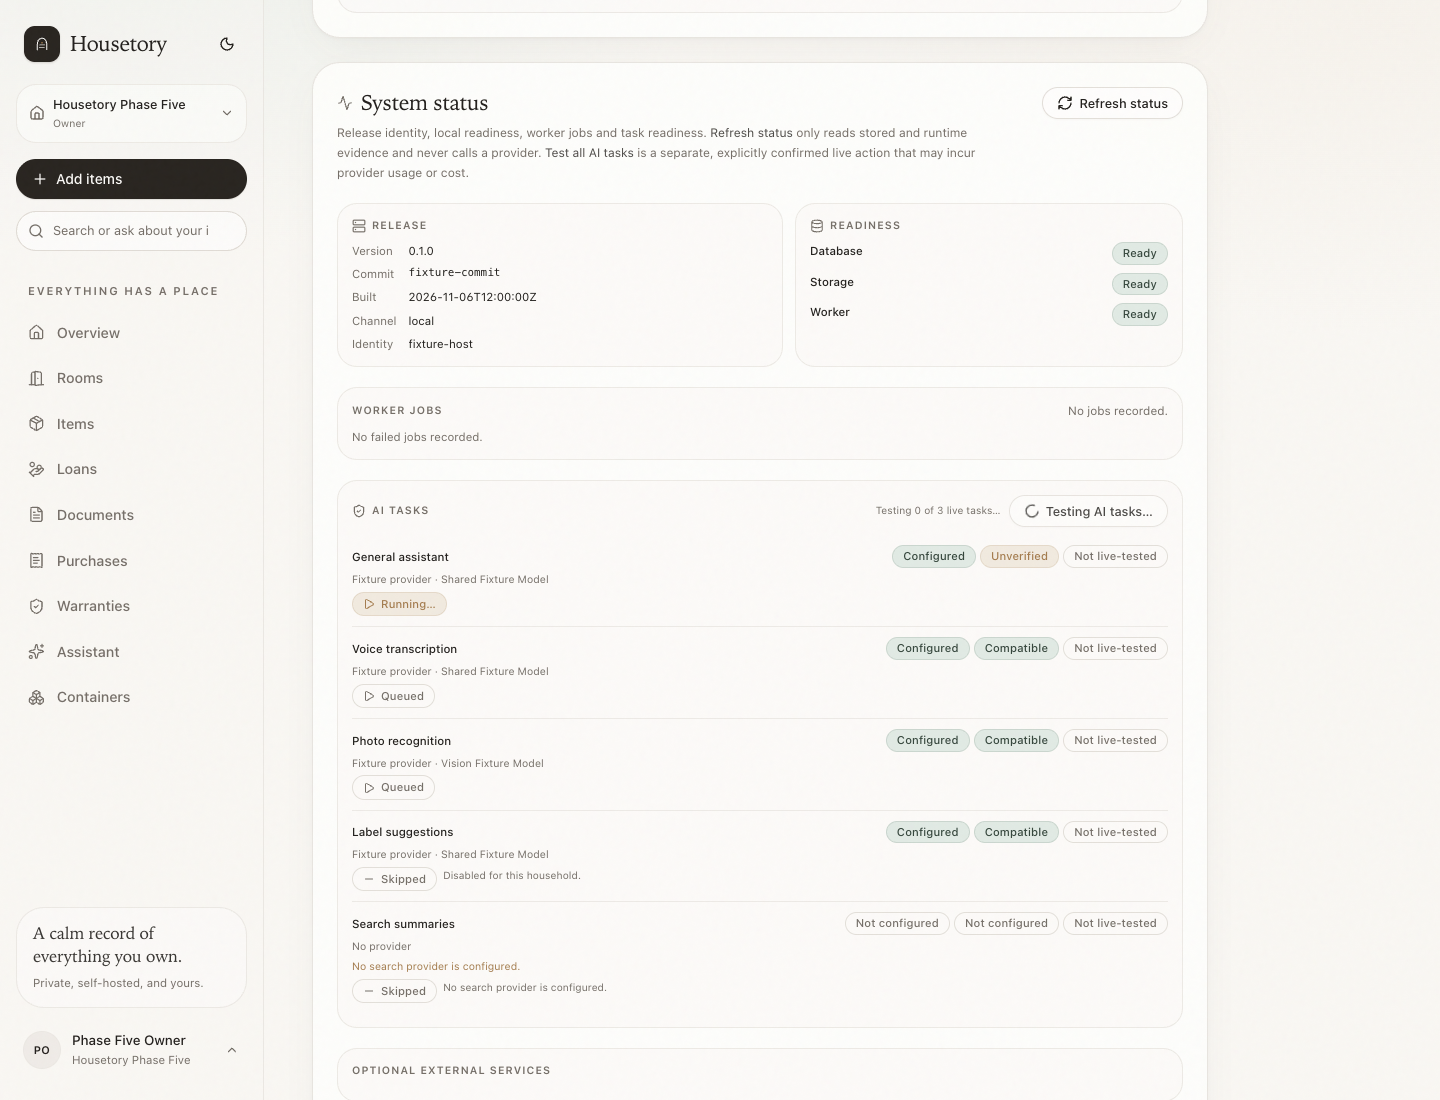
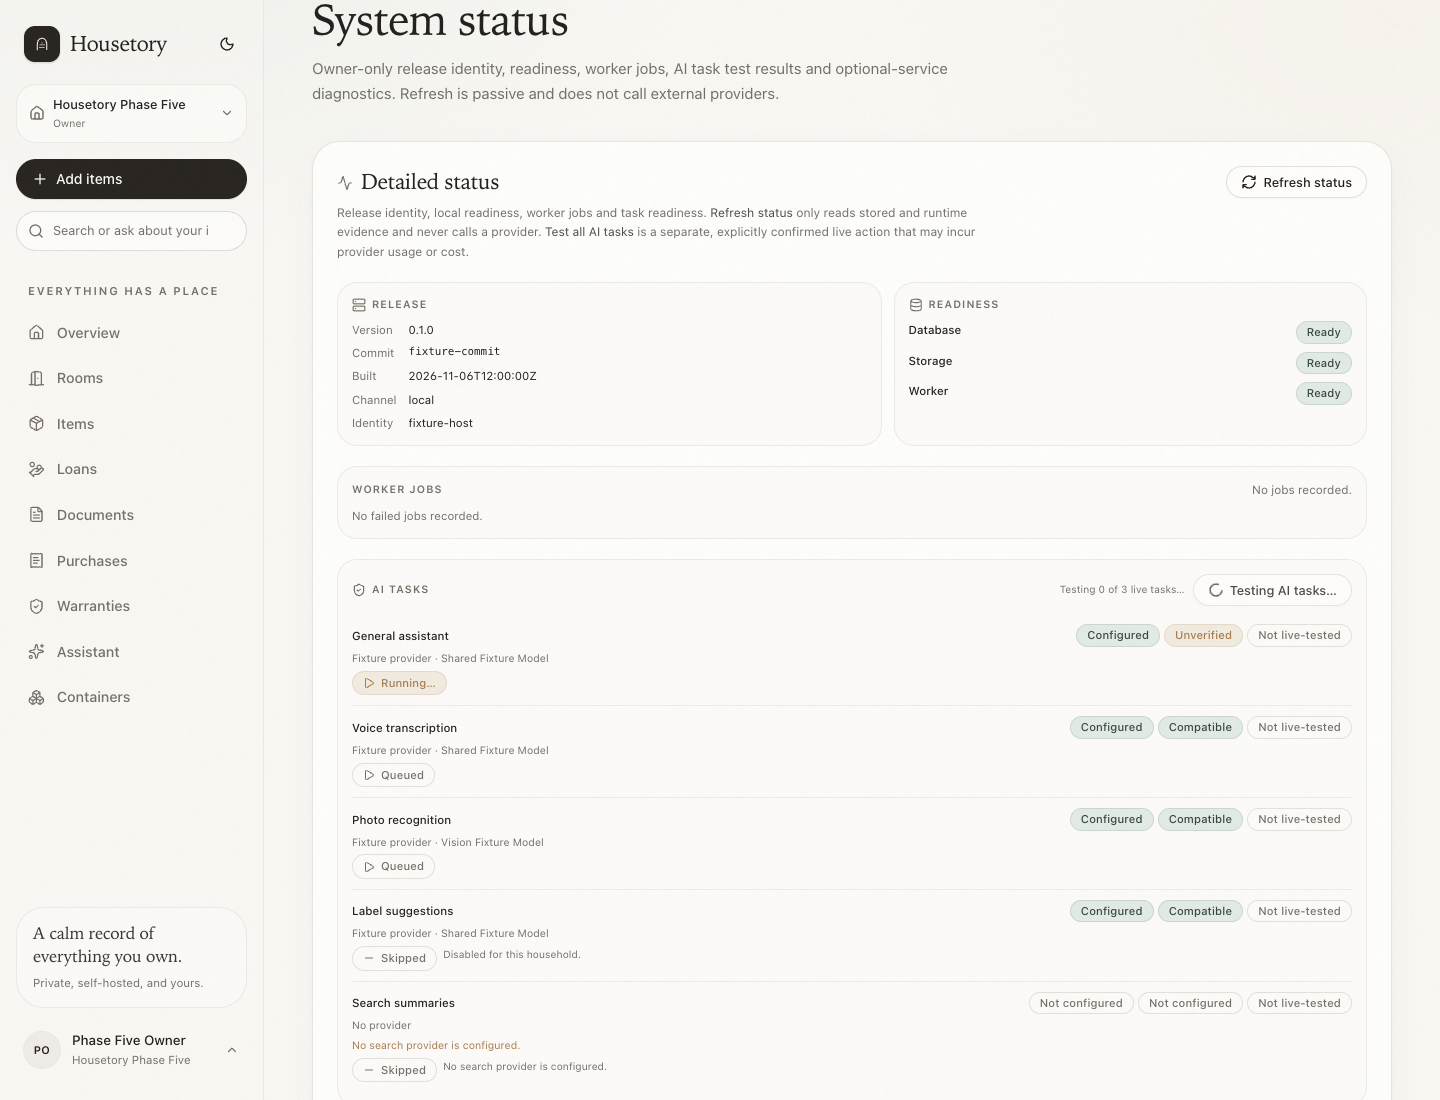
test: verify dedicated System status page
Update regression locators for the dedicated status page, show optional-not-configured context in attention summaries, refresh documentation counts and add Settings summary/detailed-page screenshots.

diff --git a/apps/web/src/components/system-health-summary.tsx b/apps/web/src/components/system-health-summary.tsx
@@ -150,6 +150,13 @@ export function SystemHealthSummary({ isOwner }: { isOwner: boolean }) {
                   and {data.issues.length - 3} more in System status.
                 </p>
               ) : null}
+              {data.optional_not_configured.length > 0 ? (
+                <p className="mt-1">
+                  Optional, not configured:{" "}
+                  {data.optional_not_configured.join(", ")}. These are not core
+                  outages.
+                </p>
+              ) : null}
             </div>
           </div>
         </div>

diff --git a/apps/web/e2e/release-stabilisation.spec.ts b/apps/web/e2e/release-stabilisation.spec.ts
@@ -149,7 +149,7 @@ test("status screen shows real readiness and task states; optional features are 
   ).toHaveCount(0);
 
   await page.setViewportSize({ width: 390, height: 844 });
-  await page.goto("/settings");
+  await page.goto("/settings/system-status");
   await status.scrollIntoViewIfNeeded();
   await page.waitForTimeout(300);
   await page.screenshot({

diff --git a/README.md b/README.md
@@ -282,7 +282,7 @@ Tailscale is optional.
 The foundation in this repository has been exercised against the real Compose
 stack, not just unit mocks:
 
-- 366 pytest tests pass against PostgreSQL, including the full Alembic chain,
+- 370 pytest tests pass against PostgreSQL, including the full Alembic chain,
   authentication/abuse controls, hierarchy semantics, concurrent identifier
   allocation, container conversion, cross-room movement, rollback, cycles,
   summaries, PDF geometry, label calibration, archive security,
@@ -341,8 +341,8 @@ stack, not just unit mocks:
   permission and license evidence, evidence exclusion, AI preview/accept/reject,
   caps/batch cancellation and the OpenAI Images adapter contract with fixture
   responses.
-- 191 Vitest tests pass; strict TypeScript typecheck and production build pass.
-- 60 checked-in Playwright workflows pass on disposable Compose stacks, covering
+- 195 Vitest tests pass; strict TypeScript typecheck and production build pass.
+- 61 checked-in Playwright workflows (60 pass, 1 fixture-dependent skip) run on disposable Compose stacks, covering
   the Phase 5 container/label/QR flows, provider configuration against a mocked
   local Ollama service, camera upload, multi-object review/split/merge and
   approved creation, voice-note review/split/confirm with grouped quantities,

diff --git a/docs/ITEM_MANUALS.md b/docs/ITEM_MANUALS.md
@@ -442,14 +442,14 @@ in the main column.
 
 ## Verification
 
-- **366 PostgreSQL-backed backend tests** pass, including household online-search
+- **370 PostgreSQL-backed backend tests** pass, including household online-search
   credential lifecycle/fallback/domain tests plus manual attachment,
   identity-gate, citation, idempotency, duplicate, provider-output and SSRF tests.
-- **191 Vitest frontend tests** pass, including the write-only online-search
+- **195 Vitest frontend tests** pass, including the write-only online-search
   Settings card, bulk AI-task progress/skips/confirmation, manual card/actions,
   Ask dialogs, real-page citations, no-AI/unconfigured states, identity
   confirmation, candidate review/download and viewer controls.
-- **60 disposable-stack Playwright workflows** pass (59 passed, 1
+- **61 disposable-stack Playwright workflows** pass (60 passed, 1
   fixture-dependent skip), including online-search Settings, bulk AI-task
   confirmation/results and two named manual workflows: a real synthetic
   upload/attach/answer flow and a mocked gated search/review/save flow at mobile

diff --git a/docs/ITEM_IMAGES.md b/docs/ITEM_IMAGES.md
@@ -303,8 +303,8 @@ preview/accept, unconfigured states, household setting toggles and batch
 cancellation. Screenshots are in
 [`docs/walkthrough/item-images/`](walkthrough/item-images/).
 
-Final local verification: **366 PostgreSQL backend tests**, **191 Vitest tests**
-and **60 disposable-stack Playwright workflows** (59 passed, 1 fixture-dependent
+Final local verification: **370 PostgreSQL backend tests**, **195 Vitest tests**
+and **61 disposable-stack Playwright workflows** (60 passed, 1 fixture-dependent
 skip) pass; Ruff, strict TypeScript typecheck, production build and Alembic drift
 checks pass. Backup
 `backups/housetory-20261106T081932Z` includes the database, uploads, imports and

diff --git a/docs/AI_PROVIDERS.md b/docs/AI_PROVIDERS.md
@@ -86,6 +86,10 @@ API keys, job payloads, prompts, borrower notes or inventory details. A catalog
 listing is not a successful inference test; only an explicit task test marks a task
 live-tested.
 
+The compact Settings summary and dedicated detailed page are captured in
+[`01-settings-summary-light.png`](walkthrough/system-status-page/01-settings-summary-light.png)
+and [`02-detailed-status-light.png`](walkthrough/system-status-page/02-detailed-status-light.png).
+
 Walkthrough screenshots of the separate passive and live actions:
 [`01-status-actions.png`](walkthrough/test-all-ai-tasks/01-status-actions.png),
 [`02-confirmation.png`](walkthrough/test-all-ai-tasks/02-confirmation.png),
